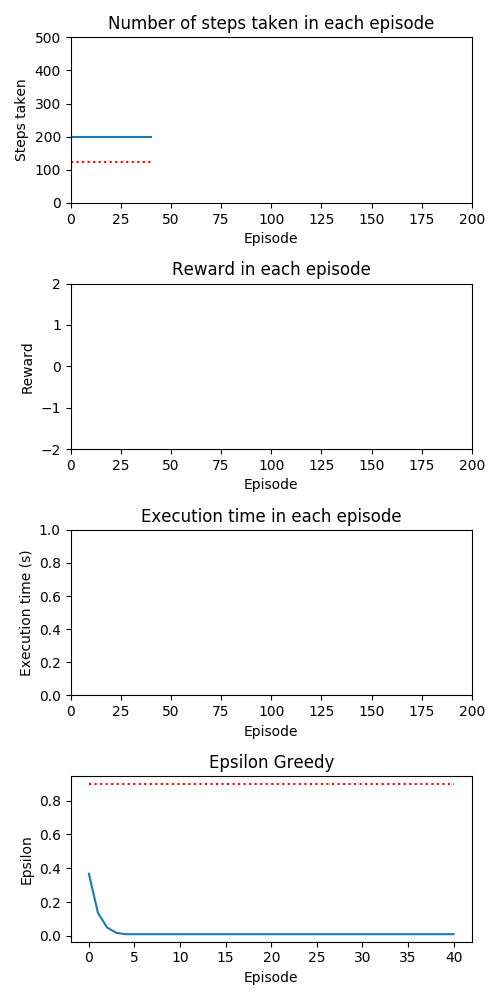
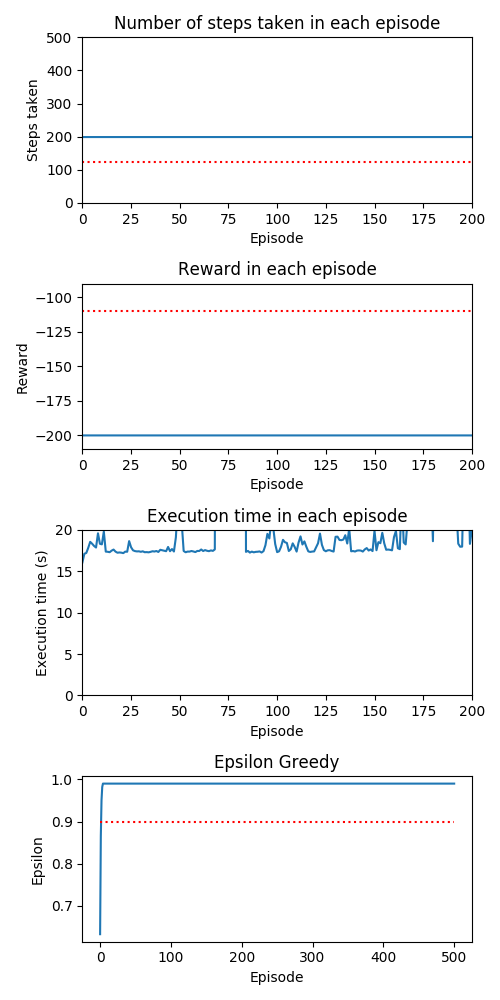
m car

diff --git a/ScenarioComparsion/MountainCar/summary.py b/ScenarioComparsion/MountainCar/summary.py
@@ -13,13 +13,13 @@ home = expanduser("~")
 FREQUENCY = 5
 
 EPISODE_MIN = 0
-EPISODE_MAX = 200
+EPISODE_MAX = 500
 
 STEP_MIN_M = 0
-STEP_MAX_M = 500
+STEP_MAX_M = 200
 
 TIME_MIN_M = 0
-TIME_MAX_M = 20
+TIME_MAX_M = 30
 
 REWARD_MIN_M = -210
 REWARD_MAX_M = -90
